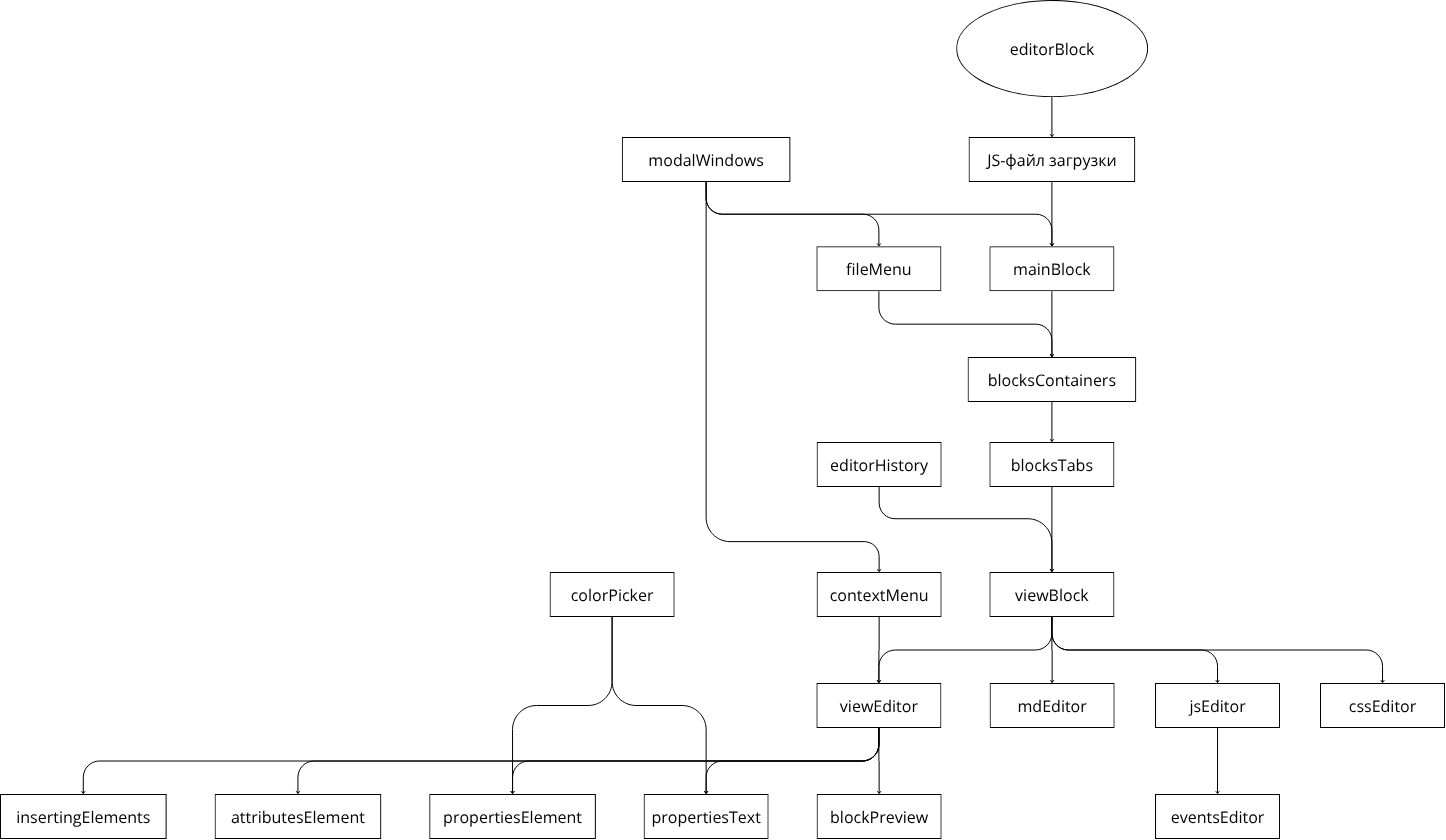
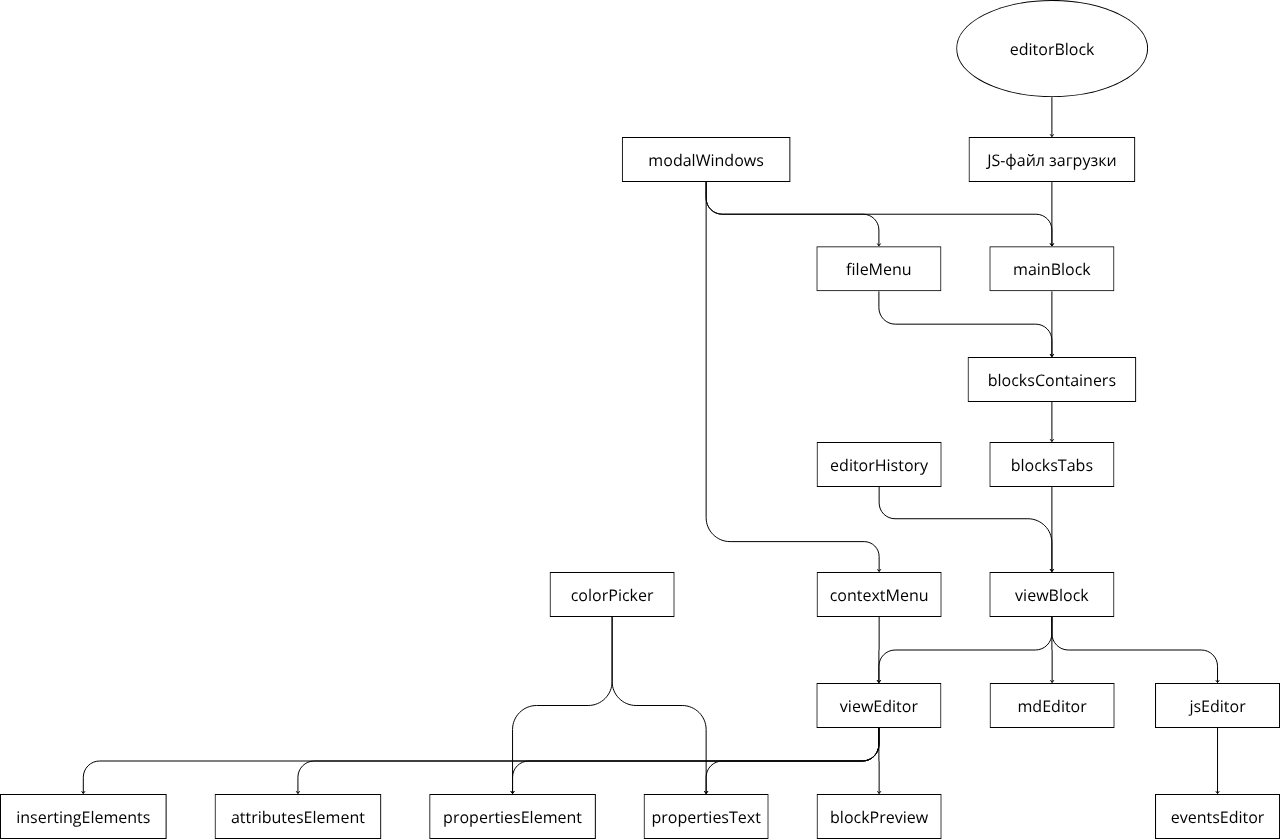
Улучшена документация

diff --git a/data/HTML/block/plugin/editorBlock/documentation/documentation.md b/data/HTML/block/plugin/editorBlock/documentation/documentation.md
@@ -56,15 +56,15 @@
     - `Новый` - создание нового блока
 
 ### Управление блоками
+- `blocksContainers` - хранилище данных блоков
+    - структура хранения блоков
+    - сохранение имени, пути и содержимого (`content.md`, `style.css`, `script.js`) блоков
 - `blocksTabs` - вкладки открытых блоков
     - список открытых блоков в виде вкладок из `blocksContainers`
     - открытие блока из `blocksContainers` в `viewBlock`
     - закрытие вкладки и удаление данных из `blocksContainers`
 - `viewBlock` - область отображения блока
     - рендер активного редактора с данными из `blocksContainers`
-- `blocksContainers` - хранилище данных блоков
-    - структура хранения блоков
-    - содержит имя, путь и содержимое (`content.md`, `style.css`, `script.js`) блоков
 - `editorHistory` - история изменений
     - запись и хранение истории изменений редактора
     - переход назад и вперёд по изменениям
@@ -76,9 +76,6 @@
     - отображение и редактирование `content.md` из `blocksContainers` в визуальном виде
 - `mdEditor` - редактор MD-кода
     - отображение и редактирование кода `content.md` из `blocksContainers`
-- `cssEditor` - редактор CSS-кода (в режиме таблицы)
-    - сбор всех классов, id и селекторов из `style.css` в `blocksContainers`
-    - преобразование в табличное представление для редактирования
 - `jsEditor` - редактор JS-кода
     - отображение и редактирование кода `script.js` из `blocksContainers`
     - подсветка синтаксиса
@@ -86,43 +83,40 @@
 
 ### Редактирование
 - `insertingElements` - вставка HTML-элементов в блок
-    - вставка элементов в `viewBlock` (с последующей синхронизацией в `blocksContainers`)
+    - вставка элементов в позицию курсора или обёртка фрагмента в `viewBlock` (с последующей синхронизацией в `blocksContainers`)
     - список html элементов (div, img (url/file), hr, итд.)
-    - вставка в позицию курсора или обёртка выделенного фрагмента
 - `propertiesText` - свойства текста
-    - изменение текста в `viewBlock` (с последующей синхронизацией в `blocksContainers`)
-    - определение и редактирование свойств выделенного текста
+    - определение и редактирование свойств текста в `viewBlock` (с последующей синхронизацией в `blocksContainers`)
     - одиночные действия (жирность, подчеркивание итд.) и стили из списка (размер текста, шрифт итд.)
 - `propertiesElement` - свойства элемента (размеры, отступы итд.)
-    - изменение стилей элемента в `style.css` в `blocksContainers`
-    - определение свойств выделенного элемента
-    - редактирование свойств (отступы, цвет итд.) и id
+    - определение и редактирование свойств элемента в `style.css` в `blocksContainers`
+    - список свойств (отступы, цвет итд.) и id
 - `attributesElement` - HTML-атрибуты элемента (id, class, data-*)
-    - изменение атрибутов элемента в `viewBlock` (с последующей синхронизацией в `blocksContainers`)
-    - определение текущих атрибутов выделенного элемента
+    - определение и редактирование атрибутов элемента в `viewBlock` (с последующей синхронизацией в `blocksContainers`)
     - редактирование через табличный интерфейс
 - `eventsEditor` - JS события элемента (обработчики и назначение функций)
-    - анализ привязанных обработчиков из `blocksContainers` (script.js) и отображение в таблице
+    - определение привязанных обработчиков к элементу из `script.js` в `blocksContainers` и отображение в таблице
     - назначение обработчиков на элементы по id, class или конкретному узлу
-    - переход в `jsEditor` с авто-подсветкой соответствующей функции
+    - переход в `jsEditor` с авто-выделением соответствующей функции
 
 ### Всплывающие окна
 - `colorPicker` - выбор цвета через окно
     - отображение цветового градиента в квадрате (белый, оттенок, чёрный, чёрный)
     - линия выбора оттенка (красный, оранжевый итд.) 
     - ввод HEX и RGB значений
+    - вывод выброного цвета
 - `contextMenu` - контекстное меню (по правому клику)
     - отображение меню с пунктами:
     - `Вставить` - вставка выбранного элемента в текущую позицию
     - `Копировать` - копирование выделенного элемента или текста
-    - `Вырезать` - удаление с копированием в буфер
+    - `Вырезать` - удаление с копированием выделенного элемента или текста
     - `Удалить` - удаление выбранного элемента
-    - `Открыть в новой странице` - загрузка блока в отдельном редакторе
+    - `Открыть в новой странице` - загрузка элемента как отдельныйй блок
     - изменение таблицы - добавление и удаление строк и столбцов в таблице
 - `modalWindows` - модальные окна
-    - уведомление / сообщение
-    - подтверждение действий (да / нет)
-    - сообщение с полем ввода
+    - создание окна уведомление / сообщение
+    - создание окна подтверждения действий (да / нет)
+    - создание окна сообщения с полем ввода и кнопкой подтвердить
 
 
 
